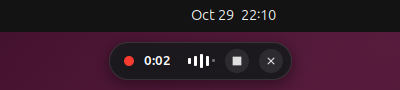
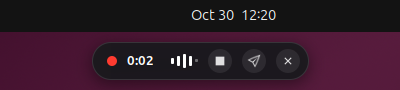
Stop and press Enter: Shift+Super+Enter, a tray item and a pill button
`heard send` works like toggle, but finishing with it also presses Enter
after typing (and leaves out the trailing space), so a chat prompt goes
straight out. The "Always press Enter" setting stays for those who want
it every time. dictation_test --send checks Enter arrives.

Changed region(s): [[0.21, 0.4667, 0.78, 0.8889], [0.54, 0.1111, 0.69, 0.2222]]

diff --git a/gnome-extension/extension.js b/gnome-extension/extension.js
@@ -88,10 +88,14 @@ class Indicator {
         this._stop = new St.Button({style_class: 'heard-button', can_focus: false,
             child: new St.Icon({icon_name: 'media-playback-stop-symbolic', icon_size: 14})});
         this._stop.connect('clicked', () => this._onClick('stop'));
+        // stop, type and press Enter (sends a chat prompt)
+        this._send = new St.Button({style_class: 'heard-button', can_focus: false,
+            child: new St.Icon({icon_name: 'mail-send-symbolic', icon_size: 14})});
+        this._send.connect('clicked', () => this._onClick('send'));
         this._cancel = new St.Button({style_class: 'heard-button', can_focus: false,
             child: new St.Icon({icon_name: 'window-close-symbolic', icon_size: 14})});
         this._cancel.connect('clicked', () => this._onClick('cancel'));
-        for (const child of [this._dot, this._label, this._meter, this._stop, this._cancel])
+        for (const child of [this._dot, this._label, this._meter, this._stop, this._send, this._cancel])
             this._box.add_child(child);
         Main.layoutManager.addTopChrome(this._box);
         this._state = 'hidden';
@@ -139,7 +143,7 @@ class Indicator {
         }
         this._dot.style_class = `heard-dot heard-${state}`;
         const recording = state === 'recording';
-        this._meter.visible = this._stop.visible = recording;
+        this._meter.visible = this._stop.visible = this._send.visible = recording;
         this._cancel.visible = state !== 'busy';
         if (recording && was !== 'recording') {
             this._started = GLib.get_monotonic_time();

diff --git a/heard/app.py b/heard/app.py
@@ -64,7 +64,7 @@ window.heard-overlay { background: transparent; }
 .heard-bar { min-width: 3px; border-radius: 2px; background: white; }
 """
 
-ACTIONS = ["toggle", "start", "stop", "cancel", "again", "history", "settings", "welcome", "launch",
+ACTIONS = ["toggle", "send", "start", "stop", "cancel", "again", "history", "settings", "welcome", "launch",
            "daemon", "quit"]
 
 
@@ -72,6 +72,7 @@ def build_parser():
     p = argparse.ArgumentParser(prog="heard", description="Speech-to-text dictation for Linux on Wayland")
     p.add_argument("action", nargs="?", default="toggle", choices=ACTIONS,
                    help="toggle (default): start dictating, or stop and type the text | "
+                        "send: start dictating, or stop, type the text and press Enter | "
                         "start | stop | cancel: discard the current dictation | "
                         "again: type the last transcript again | history: past transcripts | "
                         "settings | welcome: setup screen | launch: welcome on first run, else history | "
@@ -95,6 +96,7 @@ class HeardApp(Adw.Application):
         self.welcome = None
         self.state = "idle"  # idle | recording | transcribing
         self.stopped_at = 0.0
+        self.send = False  # press Enter after typing this dictation
         self.take = 0  # bumped per dictation, so a cancelled one's result is ignored
 
     def do_startup(self):
@@ -158,6 +160,8 @@ class HeardApp(Adw.Application):
                 self.open_welcome()
         elif action == "toggle":
             self.toggle()
+        elif action == "send":
+            self.toggle(send=True)
         elif action == "start":
             if self.state == "idle":
                 self.start()
@@ -191,9 +195,10 @@ class HeardApp(Adw.Application):
         if self.tray:
             self.tray.refresh()
 
-    def toggle(self):
+    def toggle(self, send=False):
+        """Start, or stop and type; `send` also presses Enter (only matters when stopping)."""
         if self.state == "recording":
-            self.stop()
+            self.stop(send)
         elif self.state == "idle":
             self.start()
         # while transcribing, a second press would only queue up confusion: ignore it
@@ -217,16 +222,17 @@ class HeardApp(Adw.Application):
             # load the model while you speak
             self.engine.preload()
 
-    def stop(self):
+    def stop(self, send=False):
         if self.state != "recording":
             return
         take = self.take
+        self.send = send or self.config.press_enter
         self.stopped_at = time.monotonic()
         debug("stop")
         self.set_state("transcribing")
         if self.config.sounds:
             recorder.chime(rising=False)
-        self.indicator.set_state("transcribing", "Transcribing…")
+        self.indicator.set_state("transcribing", "Transcribing and sending…" if self.send else "Transcribing…")
         self.recorder.stop(lambda path, seconds: self.on_recorded(take, path, seconds))
 
     def cancel(self):
@@ -285,7 +291,9 @@ class HeardApp(Adw.Application):
                 self.notify_error(f"Couldn't type the text ({problem}); it's on the clipboard.")
             elif method == "copied" and self.config.output != "clipboard":
                 self.toast("Copied " + text.preview(heard) + ". Paste it with Ctrl+V.")
-        self.output.deliver(text.finish(heard, self.config.trailing_space), delivered)
+        # a trailing space before Enter would only end up at the end of the sent prompt
+        self.output.deliver(text.finish(heard, self.config.trailing_space and not self.send), delivered,
+                            enter=self.send)
 
     def finish(self):
         self.set_state("idle")
@@ -304,7 +312,8 @@ class HeardApp(Adw.Application):
                 self.notify_error(f"Couldn't type the text ({problem}); it's on the clipboard.")
             elif method == "copied" and self.config.output != "clipboard":
                 self.toast("Copied. Paste it with Ctrl+V.")
-        self.output.deliver(text.finish(last["text"], self.config.trailing_space), delivered)
+        self.output.deliver(text.finish(last["text"], self.config.trailing_space), delivered,
+                            enter=self.config.press_enter)
 
     # -- feedback from the recorder, engine and indicator ------------------------------
 
@@ -320,6 +329,8 @@ class HeardApp(Adw.Application):
     def on_indicator_clicked(self, action):
         if action == "stop":
             self.stop()
+        elif action == "send":
+            self.stop(send=True)
         elif action == "cancel":
             self.cancel()
 

diff --git a/heard/output.py b/heard/output.py
@@ -37,18 +37,19 @@ class Output:
     def config(self):
         return self.app.config
 
-    def deliver(self, content, callback):
-        """Type/paste/copy `content`; callback(method, error) with method in DESCRIPTIONS."""
+    def deliver(self, content, callback, enter=False):
+        """Type/paste/copy `content`, then press Enter if `enter`; callback(method, error)
+        with method in DESCRIPTIONS. (Only copying to the clipboard never presses Enter.)"""
         mode = resolve_mode(self.config.output, content)
         if mode is None:
             self.copy(content)
             callback("copied", None)
         elif self.app.shell.available():
-            self._with_shell(content, mode, callback)
+            self._with_shell(content, mode, enter, callback)
         elif platform.typing_tool():
-            self._with_tool(platform.typing_tool(), content, callback)
+            self._with_tool(platform.typing_tool(), content, enter, callback)
         elif self._portal_available():
-            self._with_portal(content, callback)
+            self._with_portal(content, enter, callback)
         else:
             self.copy(content)
             callback("copied", None)
@@ -67,7 +68,7 @@ class Output:
             from gi.repository import Gdk
             Gdk.Display.get_default().get_clipboard().set(content)
 
-    def _with_shell(self, content, mode, callback):
+    def _with_shell(self, content, mode, enter, callback):
         def done(result, error):
             if error:
                 # still give the user their words
@@ -78,14 +79,14 @@ class Output:
             if method == "typed" and self.config.copy_to_clipboard:
                 self.copy(content.rstrip())
             callback(method, None)
-        self.app.shell.call("TypeText", GLib.Variant("(ssb)", (content, mode, self.config.press_enter)), done)
+        self.app.shell.call("TypeText", GLib.Variant("(ssb)", (content, mode, enter)), done)
 
     def _portal_available(self):
         if self._portal_ok is None:
             self._portal_ok = portal.available()
         return self._portal_ok
 
-    def _with_portal(self, content, callback):
+    def _with_portal(self, content, enter, callback):
         if self._portal is None:
             self._portal = portal.PortalKeyboard(self.config)
 
@@ -96,7 +97,7 @@ class Output:
             else:
                 # no clipboard copy here: without focus or the extension GNOME would ignore it
                 callback("typed", None)
-        self._portal.type(content, self.config.press_enter, done)
+        self._portal.type(content, enter, done)
 
     def prepare(self):
         """Open the portal session now if it will be needed, so its permission
@@ -112,9 +113,7 @@ class Output:
         if self._portal is not None:
             self._portal.close()
 
-    def _with_tool(self, tool, content, callback):
-        enter = self.config.press_enter
-
+    def _with_tool(self, tool, content, enter, callback):
         def work():
             import time
             time.sleep(0.3)  # let go of the shortcut's keys first

diff --git a/tools/dictation_test.py b/tools/dictation_test.py
@@ -6,7 +6,8 @@ headless nested shell, with the speech engine installed:
     HEARD_NESTED_HEADLESS=1 tools/nested-shell.sh python3 tools/dictation_test.py SPEECH.wav "expected words"
 
 With --auto-stop, `heard stop` is never sent: the silence after the recording
-has to end the dictation (silence_stop is set to 2 seconds).
+has to end the dictation (silence_stop is set to 2 seconds). With --send, it
+finishes with `heard send` and checks that Enter was pressed after the text.
 
 Uses throwaway settings and history; your own are left alone.
 """
@@ -32,7 +33,8 @@ MIC = "HeardTestMic"
 
 def main():
     auto_stop = "--auto-stop" in sys.argv
-    wav, expected = [a for a in sys.argv[1:] if a != "--auto-stop"][:2]
+    send = "--send" in sys.argv
+    wav, expected = [a for a in sys.argv[1:] if not a.startswith("--")][:2]
     expected = expected.lower()
     data_home = tempfile.mkdtemp(prefix="heard-test-")
     real_data = Path(os.environ.get("XDG_DATA_HOME") or Path.home() / ".local/share")
@@ -74,12 +76,12 @@ def main():
             if not auto_stop:
                 time.sleep(0.5)
                 stop = time.monotonic()
-                subprocess.run([HEARD, "stop"], check=True)
+                subprocess.run([HEARD, "send" if send else "stop"], check=True)
             # done once text has arrived and stopped changing for half a second
             seen, steady_since = "", None
             for _ in range(200):
                 time.sleep(0.1)
-                GLib.idle_add(lambda: result.update(text=contents().strip()) and False)
+                GLib.idle_add(lambda: result.update(text=contents()) and False)
                 now = result.get("text", "")
                 if now and now == seen:
                     steady_since = steady_since or time.monotonic()
@@ -109,6 +111,10 @@ def main():
     if history.exists():
         print("history: ", history.read_text().strip())
     ok = expected in got.lower()
+    if send:
+        enter = got.endswith("\n") and not got.endswith(" \n")
+        print("Enter pressed, no space before it:", enter)
+        ok = ok and enter
     print("PASS" if ok else "FAIL")
     return 0 if ok else 1
 

diff --git a/heard/shortcuts.py b/heard/shortcuts.py
@@ -27,6 +27,7 @@ BASE = "/org/gnome/settings-daemon/plugins/media-keys/custom-keybindings/"
 # (id, description, default accelerator or None); id is also the `heard` action
 DEFAULTS = [
     ("toggle", "Start or stop dictation", "<Shift><Super>h"),
+    ("send", "Stop dictation and press Enter", "<Shift><Super>Return"),
     ("cancel", "Cancel dictation", None),
     ("again", "Type the last transcript again", None),
 ]
@@ -170,13 +171,16 @@ def instructions():
     launcher = _launcher()
     kind = platform.desktop()
     if kind == "kde":
-        return ("KDE Plasma picks up Heard's dictation shortcut (Meta+Shift+H) from its menu entry. "
-                "Change it in System Settings → Keyboard → Shortcuts → Heard.")
+        return ("KDE Plasma picks up Heard's shortcuts (Meta+Shift+H, and Meta+Shift+Return to also "
+                "press Enter) from its menu entry. Change them in System Settings → Keyboard → Shortcuts → Heard.")
     if kind == "hyprland":
-        return ("Add this to ~/.config/hypr/hyprland.conf:\n\n"
-                f"bind = SUPER SHIFT, H, exec, {launcher} toggle")
+        return ("Add these to ~/.config/hypr/hyprland.conf:\n\n"
+                f"bind = SUPER SHIFT, H, exec, {launcher} toggle\n"
+                f"bind = SUPER SHIFT, Return, exec, {launcher} send")
     if kind == "sway":
-        return f"Add this to your Sway config:\n\nbindsym $mod+Shift+h exec {launcher} toggle"
+        return ("Add these to your Sway config:\n\n"
+                f"bindsym $mod+Shift+h exec {launcher} toggle\n"
+                f"bindsym $mod+Shift+Return exec {launcher} send")
     return f"Bind a key to the command `{launcher} toggle` in your desktop's keyboard settings."
 
 

diff --git a/heard/indicator.py b/heard/indicator.py
@@ -65,9 +65,12 @@ class _OverlayWindow(Gtk.Window):
             self.bars.append(bar)
         self.stop_btn = Gtk.Button(icon_name="media-playback-stop-symbolic", css_classes=["circular", "flat"])
         self.stop_btn.connect("clicked", lambda *_: app.toggle())
+        self.send_btn = Gtk.Button(icon_name="mail-send-symbolic", css_classes=["circular", "flat"],
+                                   tooltip_text="Stop, type and press Enter")
+        self.send_btn.connect("clicked", lambda *_: app.toggle(send=True))
         self.cancel_btn = Gtk.Button(icon_name="window-close-symbolic", css_classes=["circular", "flat"])
         self.cancel_btn.connect("clicked", lambda *_: app.cancel())
-        for child in (self.dot, self.label, self.meter, self.stop_btn, self.cancel_btn):
+        for child in (self.dot, self.label, self.meter, self.stop_btn, self.send_btn, self.cancel_btn):
             box.append(child)
         self.set_child(box)
         self.started = 0
@@ -87,6 +90,7 @@ class _OverlayWindow(Gtk.Window):
         self.dot.add_css_class(f"heard-{state}")
         self.meter.set_visible(recording)
         self.stop_btn.set_visible(recording)
+        self.send_btn.set_visible(recording)
         self.cancel_btn.set_visible(state != "busy")
         self.text = text
         if recording:

diff --git a/heard/settings.py b/heard/settings.py
@@ -205,8 +205,8 @@ class SettingsWindow(Adw.PreferencesWindow):
                                "Straight quotes, hyphens and three dots instead of typographic ones"))
         output.add(self.switch("Add a space after", "trailing_space",
                                "So consecutive dictations don't run together"))
-        output.add(self.switch("Press Enter after typing", "press_enter",
-                               "Sends chat prompts right away"))
+        output.add(self.switch("Always press Enter after typing", "press_enter",
+                               "Or just once: finish with Shift+Super+Enter instead of Shift+Super+H"))
         output.add(self.switch("Also copy to the clipboard", "copy_to_clipboard"))
 
         general = Adw.PreferencesGroup(title="General")

diff --git a/heard/tray.py b/heard/tray.py
@@ -122,7 +122,9 @@ class Tray:
     def entries(self):
         """(label, action) pairs; None is a separator."""
         app = self.app
-        entries = [("Stop and Transcribe" if app.recording else "Start Dictation", app.toggle)]
+        entries = [("Stop and Type" if app.recording else "Start Dictation", app.toggle)]
+        if app.recording:
+            entries.append(("Stop, Type and Press Enter", lambda: app.toggle(send=True)))
         if app.recording or app.transcribing:
             entries.append(("Cancel Dictation", app.cancel))
         return entries + [

diff --git a/docs/user-guide.md b/docs/user-guide.md
@@ -7,6 +7,8 @@
 3. Speak naturally, with punctuation in your voice; Whisper adds commas and full stops itself.
 4. Press the shortcut again (or click ■ on the pill). A falling tone plays, the pill turns amber while it transcribes, and the text is typed at the cursor.
 
+To send what you said right away (a chat or AI prompt), finish with <kbd>Shift</kbd>+<kbd>Super</kbd>+<kbd>Enter</kbd> instead, or click ➤ on the pill: the text is typed and Enter is pressed, without the usual trailing space. Either shortcut starts a dictation, and the one you finish with decides. To press Enter after every dictation, turn on Settings → Output → "Always press Enter after typing".
+
 Click ✕ on the pill to throw a dictation away. If you said nothing (or the microphone is muted), nothing is typed and a notification tells you.
 
 Pressing the shortcut while a dictation is being transcribed does nothing, so a double press can't start a stray recording.
@@ -42,7 +44,7 @@ The model is loaded when Heard starts (so the first dictation is instant) and fr
 
 Other output options:
 
-- **Press Enter after typing** sends chat prompts right away.
+- **Always press Enter after typing** sends every dictation right away. For just one, finish with <kbd>Shift</kbd>+<kbd>Super</kbd>+<kbd>Enter</kbd>.
 - **Add a space after** keeps consecutive dictations from running together.
 - **Also copy to the clipboard** keeps the last transcript there as well.
 
@@ -62,6 +64,7 @@ Other output options:
 
 ```
 heard toggle     start, or stop and type (the default action)
+heard send       start, or stop, type and press Enter
 heard start      start if idle
 heard stop       stop and type if recording
 heard cancel     discard the current dictation
@@ -75,8 +78,8 @@ All of these talk to the running instance (and start it if needed), so they're w
 
 - **KDE Plasma:** install `ydotool` and enable its daemon (`systemctl --user enable --now ydotool` on most distros; your user needs access to `/dev/uinput`). The shortcut comes from Heard's menu entry; change it in System Settings → Keyboard → Shortcuts. Install `gtk4-layer-shell` for the listening pill.
 - **Hyprland / Sway:** install `wtype` and `gtk4-layer-shell`, then bind a key:
-  - Hyprland: `bind = SUPER SHIFT, H, exec, heard toggle`
-  - Sway: `bindsym $mod+Shift+h exec heard toggle`
+  - Hyprland: `bind = SUPER SHIFT, H, exec, heard toggle` and `bind = SUPER SHIFT, Return, exec, heard send`
+  - Sway: `bindsym $mod+Shift+h exec heard toggle` and `bindsym $mod+Shift+Return exec heard send`
 - Without a typing tool, transcripts go to the clipboard (install `wl-clipboard` so that works without focus).
 
 ## Troubleshooting

diff --git a/README.md b/README.md
@@ -62,13 +62,14 @@ The first dictation downloads the speech model (1.6 GB for the default). After t
 | | |
 |---|---|
 | <kbd>Shift</kbd>+<kbd>Super</kbd>+<kbd>H</kbd> | Start dictating; press again to stop and type the text |
-| Click ■ on the pill | Stop and type |
+| <kbd>Shift</kbd>+<kbd>Super</kbd>+<kbd>Enter</kbd> | Stop, type the text **and press Enter** (sends a chat prompt). Also starts dictating. |
+| Click ■ / ➤ on the pill | Stop and type / stop, type and press Enter |
 | Click ✕ on the pill | Cancel, nothing is typed |
 
 "Cancel dictation" and "Type the last transcript again" can be bound to keys in Settings → Shortcuts. Everything is also in the tray menu and on the command line:
 
 ```
-heard toggle | start | stop | cancel | again | history | settings | welcome | quit
+heard toggle | send | start | stop | cancel | again | history | settings | welcome | quit
 ```
 
 📖 **The [user guide](docs/user-guide.md)** covers models, settings, other desktops and troubleshooting.
